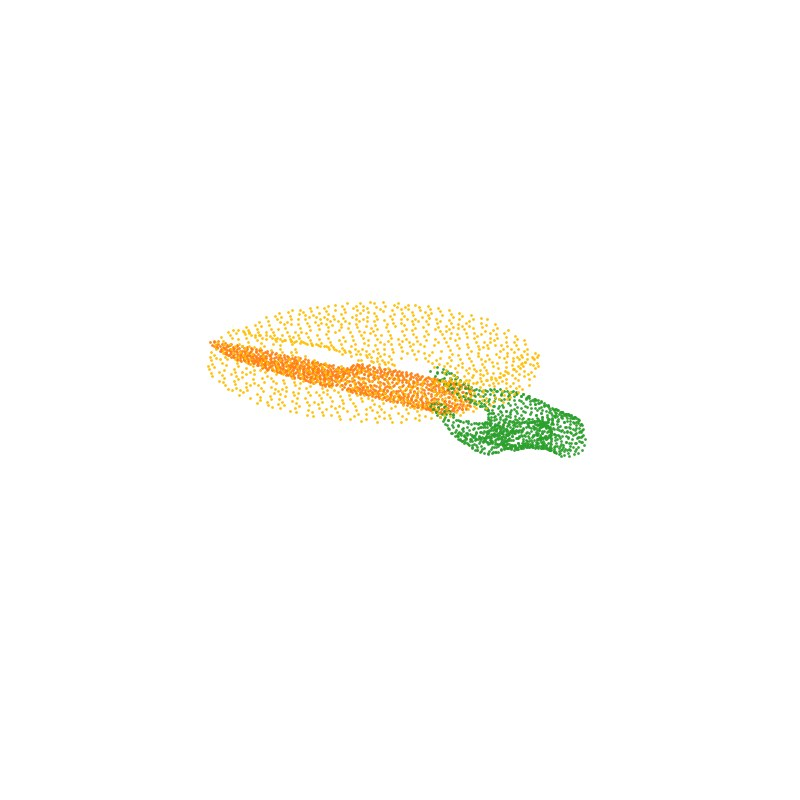
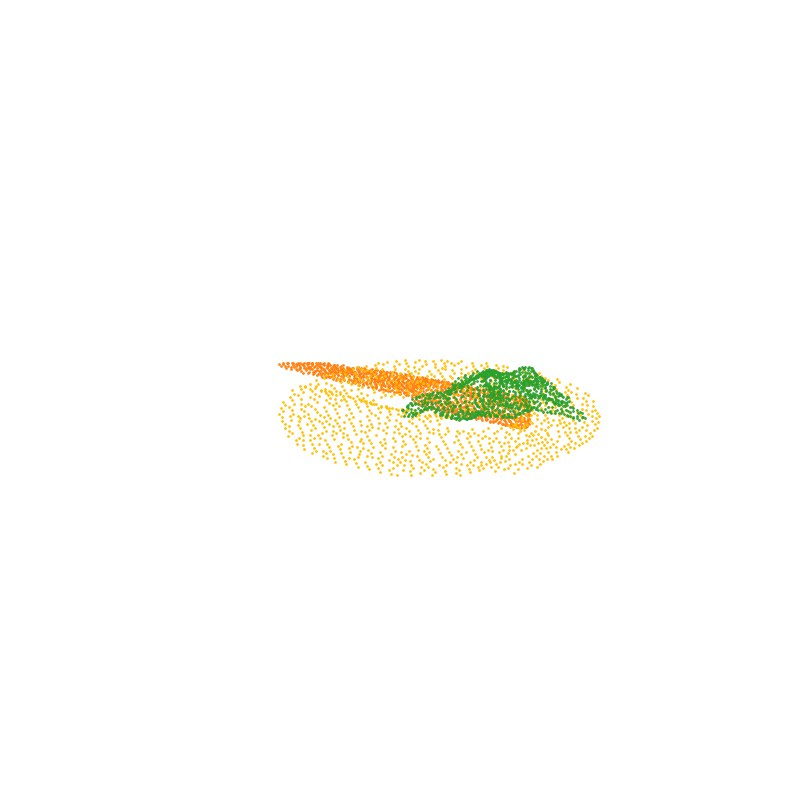
3d-wam deck #2-1: all ten HOI4D clips re-rendered from the final corpus
Every HOI4D visualization now comes from the locker+cupboard destination build
and the final gravity sidecar (md5 6c58ef46, 1678 of 1683 ok, 317 sign
corrected). Four changed: the knife, bowl and bottle clips predated a retracted
sign-fix sidecar, and the kettle predated the resting-pose rule. Six are
byte-identical, so the toy car and chair were already current.

Travel re-measured on that corpus as start centroid to resting centroid:
2.8 / 6.5 / 7.9 / 30.3 / 127 cm, and 59 percent of pick-and-place under 10 cm,
not 71. The per-task slide now says destinations are pick-and-place only.

Claude-Session: https://claude.ai/code/session_01SMPxcWL3pAAD5cKRpfQpSb

Changed region(s): [[0.25, 0.375, 0.75, 0.5938]]

diff --git a/experiments/3d-wam/decks/2026-09-08-s2-1-human-data/index.html b/experiments/3d-wam/decks/2026-09-08-s2-1-human-data/index.html
@@ -363,7 +363,7 @@
 <!-- SECTION: viz grid (outside the cap) · HOI4D one clip per task family -->
 <section class="slide s-viz">
   <h2>Data (7/8): HOI4D &mdash; one clip per task</h2>
-  <p class="thesis ctx">Five task families, now with the destination or target object</p>
+  <p class="thesis ctx">Five task families &mdash; only pick-and-place carries a destination</p>
   <div class="vizgrid">
     <figure><img src="assets/hoi4d__hoi4d_ZY20210800001_H1_C12_N27_S165_s01_T1__human.gif" alt="HOI4D · pick and place the kettle" loading="lazy" style="background:url(assets/hoi4d__hoi4d_ZY20210800001_H1_C12_N27_S165_s01_T1__human.jpg) center/contain no-repeat"><figcaption>pick and place &middot; pick and place the kettle</figcaption></figure>
     <figure><img src="assets/hoi4d__hoi4d_ZY20210800001_H1_C7_N16_S59_s02_T2__human.gif" alt="HOI4D · put the bowl in the drawer" loading="lazy" style="background:url(assets/hoi4d__hoi4d_ZY20210800001_H1_C7_N16_S59_s02_T2__human.jpg) center/contain no-repeat"><figcaption>put in drawer &middot; put the bowl in the drawer</figcaption></figure>
@@ -371,7 +371,7 @@
     <figure><img src="assets/hoi4d__hoi4d_ZY20210800001_H1_C14_N17_S158_s02_T1__human.gif" alt="HOI4D · open and close the trash can" loading="lazy" style="background:url(assets/hoi4d__hoi4d_ZY20210800001_H1_C14_N17_S158_s02_T1__human.jpg) center/contain no-repeat"><figcaption>open and close &middot; open and close the trash can</figcaption></figure>
     <figure><img src="assets/hoi4d__hoi4d_ZY20210800001_H1_C13_N12_S179_s03_T4__human.gif" alt="HOI4D · cut apple with the knife" loading="lazy" style="background:url(assets/hoi4d__hoi4d_ZY20210800001_H1_C13_N12_S179_s03_T4__human.jpg) center/contain no-repeat"><figcaption>cut &middot; cut apple with the knife</figcaption></figure>
   </div>
-  <p class="footnote">7.5 Hz, exact stride 2, lightly smoothed &middot; gravity z-up, no table plane (free workspace) &middot; second entity from HOI4D&rsquo;s labelled scene cloud: placement surface for pick-and-place, the named destination for pour and drawer, the target for cut; open-and-close needs none &middot; 50 frames = 6.7 s</p>
+  <p class="footnote">7.5 Hz, exact stride 2, lightly smoothed &middot; gravity z-up, no table plane (free workspace) &middot; second entity from HOI4D&rsquo;s labelled scene cloud on pick-and-place only (the kettle here); the other four families are a single object &middot; 50 frames = 6.7 s</p>
 </section>
 
 <!-- SECTION: viz grid · HOI4D pick-and-place with the placement surface -->
@@ -379,13 +379,13 @@
   <h2>HOI4D: where the object is put down</h2>
   <p class="thesis ctx">The placement surface, across the range of how far objects travel</p>
   <div class="vizgrid">
-    <figure><img src="assets/hoi4d__pnp1.gif" alt="HOI4D · pick and place the knife" loading="lazy" style="background:url(assets/hoi4d__pnp1.jpg) center/contain no-repeat"><figcaption>pick and place the knife &middot; travels 3.1 cm</figcaption></figure>
-    <figure><img src="assets/hoi4d__pnp2.gif" alt="HOI4D · pick and place the toy car" loading="lazy" style="background:url(assets/hoi4d__pnp2.jpg) center/contain no-repeat"><figcaption>pick and place the toy car &middot; travels 5.4 cm</figcaption></figure>
-    <figure><img src="assets/hoi4d__pnp3.gif" alt="HOI4D · pick and place the bowl" loading="lazy" style="background:url(assets/hoi4d__pnp3.jpg) center/contain no-repeat"><figcaption>pick and place the bowl &middot; travels 7.6 cm</figcaption></figure>
-    <figure><img src="assets/hoi4d__pnp4.gif" alt="HOI4D · reposition the bottle" loading="lazy" style="background:url(assets/hoi4d__pnp4.jpg) center/contain no-repeat"><figcaption>reposition the bottle &middot; travels 29.8 cm</figcaption></figure>
-    <figure><img src="assets/hoi4d__pnp5.gif" alt="HOI4D · chair to a new position" loading="lazy" style="background:url(assets/hoi4d__pnp5.jpg) center/contain no-repeat"><figcaption>chair to a new position &middot; travels 134 cm</figcaption></figure>
+    <figure><img src="assets/hoi4d__pnp1.gif" alt="HOI4D · pick and place the knife" loading="lazy" style="background:url(assets/hoi4d__pnp1.jpg) center/contain no-repeat"><figcaption>pick and place the knife &middot; travels 2.8 cm</figcaption></figure>
+    <figure><img src="assets/hoi4d__pnp2.gif" alt="HOI4D · pick and place the toy car" loading="lazy" style="background:url(assets/hoi4d__pnp2.jpg) center/contain no-repeat"><figcaption>pick and place the toy car &middot; travels 6.5 cm</figcaption></figure>
+    <figure><img src="assets/hoi4d__pnp3.gif" alt="HOI4D · pick and place the bowl" loading="lazy" style="background:url(assets/hoi4d__pnp3.jpg) center/contain no-repeat"><figcaption>pick and place the bowl &middot; travels 7.9 cm</figcaption></figure>
+    <figure><img src="assets/hoi4d__pnp4.gif" alt="HOI4D · reposition the bottle" loading="lazy" style="background:url(assets/hoi4d__pnp4.jpg) center/contain no-repeat"><figcaption>reposition the bottle &middot; travels 30.3 cm</figcaption></figure>
+    <figure><img src="assets/hoi4d__pnp5.gif" alt="HOI4D · chair to a new position" loading="lazy" style="background:url(assets/hoi4d__pnp5.jpg) center/contain no-repeat"><figcaption>chair to a new position &middot; travels 127 cm</figcaption></figure>
   </div>
-  <p class="footnote">Grey patch = the labelled surface beneath the object&rsquo;s resting pose, from HOI4D&rsquo;s own scene cloud; pick-and-place only, other families keep a single object. Measured as the vertical gap from the object&rsquo;s lowest point to the top of the region: <b>88 % sit within 10 cm of the real support</b> (median &minus;0.3 cm, p90 6.9 cm). 71 % of pick-and-place travels under 10 cm, so the object is often set down near where it started &mdash; the last two clips are the cases where the destination is visibly elsewhere.</p>
+  <p class="footnote">Grey patch = the labelled surface beneath the object&rsquo;s resting pose, from HOI4D&rsquo;s own scene cloud; pick-and-place only, other families keep a single object. Measured as the vertical gap from the object&rsquo;s lowest point to the top of the region: <b>88 % sit within 10 cm of the real support</b> (median &minus;0.3 cm, p90 6.9 cm). Travel = start centroid to resting centroid; 59 % of pick-and-place travels under 10 cm, so the object is often set down near where it started &mdash; the last two clips are the cases where the destination is visibly elsewhere.</p>
 </section>
 
 <!-- SECTION: viz grid · raw vs smoothed, same window and camera -->
